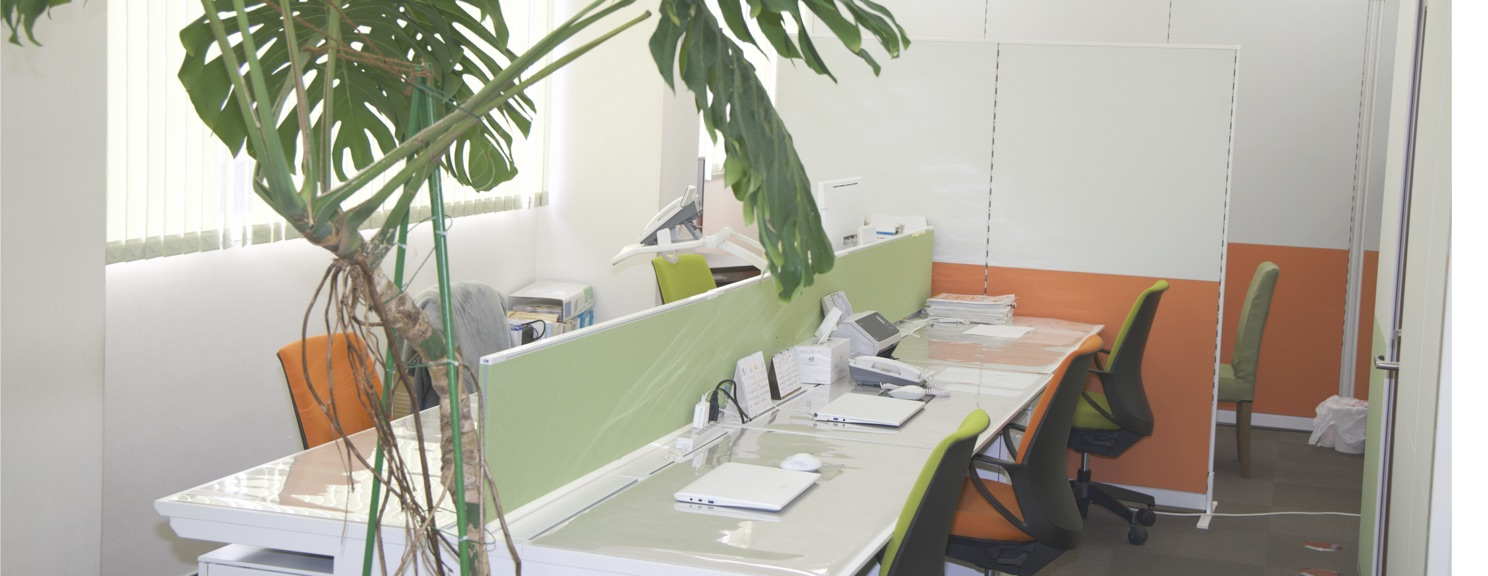
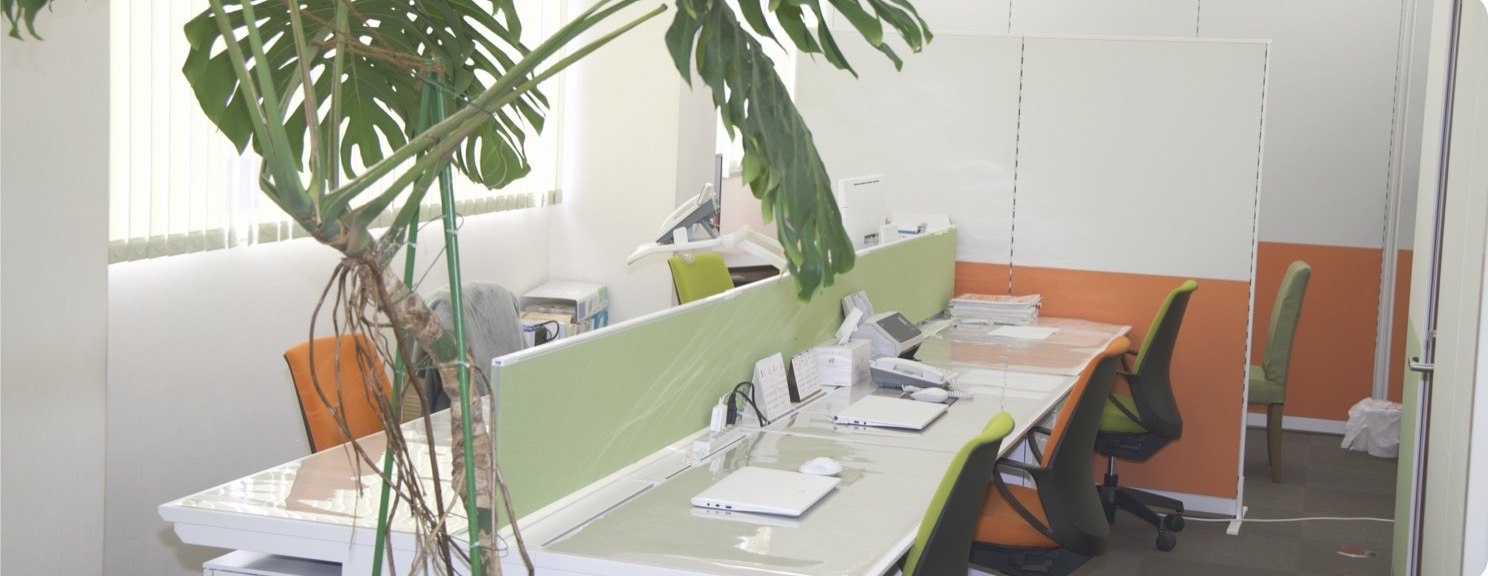
ブランド刷新: ロゴ/木シンボル/ファビコン更新・environment写真を新オフィス写真に差し替え

diff --git a/requirements.html b/requirements.html
@@ -12,6 +12,9 @@
   <link rel="stylesheet" href="css/variables.css">
   <link rel="stylesheet" href="css/common.css">
   <link rel="stylesheet" href="css/pages/requirements.css">
+  <link rel="icon" type="image/png" sizes="32x32" href="images/common/favicon-32.png">
+  <link rel="icon" type="image/png" sizes="512x512" href="images/common/favicon-512.png">
+  <link rel="apple-touch-icon" href="images/common/favicon-180.png">
 </head>
 <body>
   <div id="header-placeholder"></div>

diff --git a/environment.html b/environment.html
@@ -12,6 +12,9 @@
   <link rel="stylesheet" href="css/variables.css">
   <link rel="stylesheet" href="css/common.css">
   <link rel="stylesheet" href="css/pages/environment.css">
+  <link rel="icon" type="image/png" sizes="32x32" href="images/common/favicon-32.png">
+  <link rel="icon" type="image/png" sizes="512x512" href="images/common/favicon-512.png">
+  <link rel="apple-touch-icon" href="images/common/favicon-180.png">
 </head>
 <body>
   <div id="header-placeholder"></div>

diff --git a/privacy.html b/privacy.html
@@ -12,6 +12,9 @@
   <link rel="stylesheet" href="css/variables.css">
   <link rel="stylesheet" href="css/common.css">
   <link rel="stylesheet" href="css/pages/privacy.css">
+  <link rel="icon" type="image/png" sizes="32x32" href="images/common/favicon-32.png">
+  <link rel="icon" type="image/png" sizes="512x512" href="images/common/favicon-512.png">
+  <link rel="apple-touch-icon" href="images/common/favicon-180.png">
 </head>
 <body>
   <div id="header-placeholder"></div>

diff --git a/about.html b/about.html
@@ -12,6 +12,9 @@
   <link rel="stylesheet" href="css/variables.css">
   <link rel="stylesheet" href="css/common.css">
   <link rel="stylesheet" href="css/pages/about.css">
+  <link rel="icon" type="image/png" sizes="32x32" href="images/common/favicon-32.png">
+  <link rel="icon" type="image/png" sizes="512x512" href="images/common/favicon-512.png">
+  <link rel="apple-touch-icon" href="images/common/favicon-180.png">
 </head>
 <body>
   <div id="header-placeholder"></div>

diff --git a/entry.html b/entry.html
@@ -12,6 +12,9 @@
   <link rel="stylesheet" href="css/variables.css">
   <link rel="stylesheet" href="css/common.css">
   <link rel="stylesheet" href="css/pages/entry.css">
+  <link rel="icon" type="image/png" sizes="32x32" href="images/common/favicon-32.png">
+  <link rel="icon" type="image/png" sizes="512x512" href="images/common/favicon-512.png">
+  <link rel="apple-touch-icon" href="images/common/favicon-180.png">
 </head>
 <body>
   <div id="header-placeholder"></div>

diff --git a/index.html b/index.html
@@ -12,6 +12,9 @@
   <link rel="stylesheet" href="css/variables.css">
   <link rel="stylesheet" href="css/common.css">
   <link rel="stylesheet" href="css/pages/home.css">
+  <link rel="icon" type="image/png" sizes="32x32" href="images/common/favicon-32.png">
+  <link rel="icon" type="image/png" sizes="512x512" href="images/common/favicon-512.png">
+  <link rel="apple-touch-icon" href="images/common/favicon-180.png">
 </head>
 <body>
   <div id="header-placeholder"></div>
